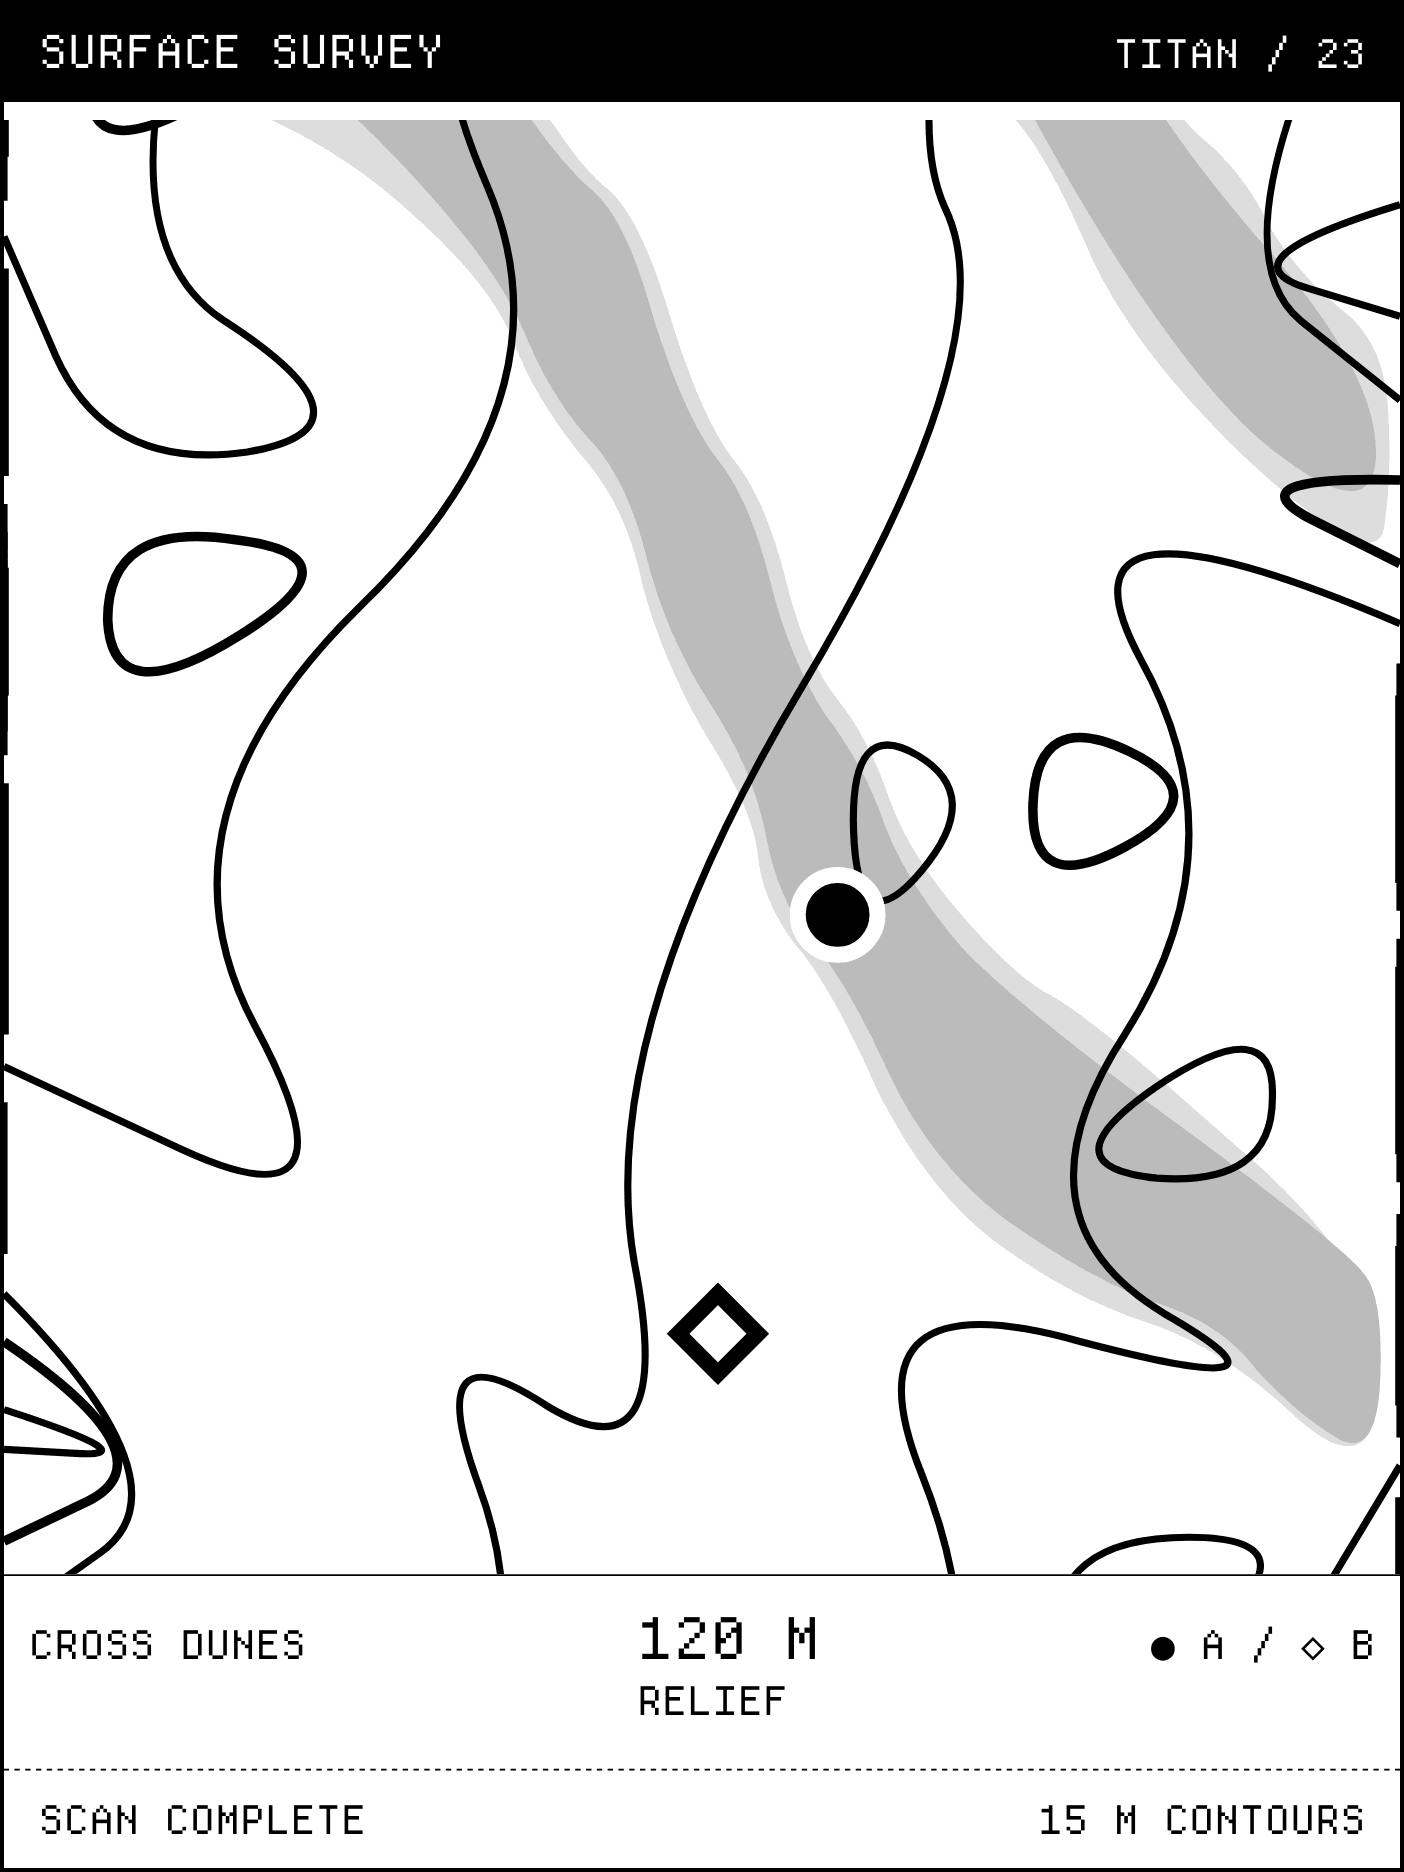
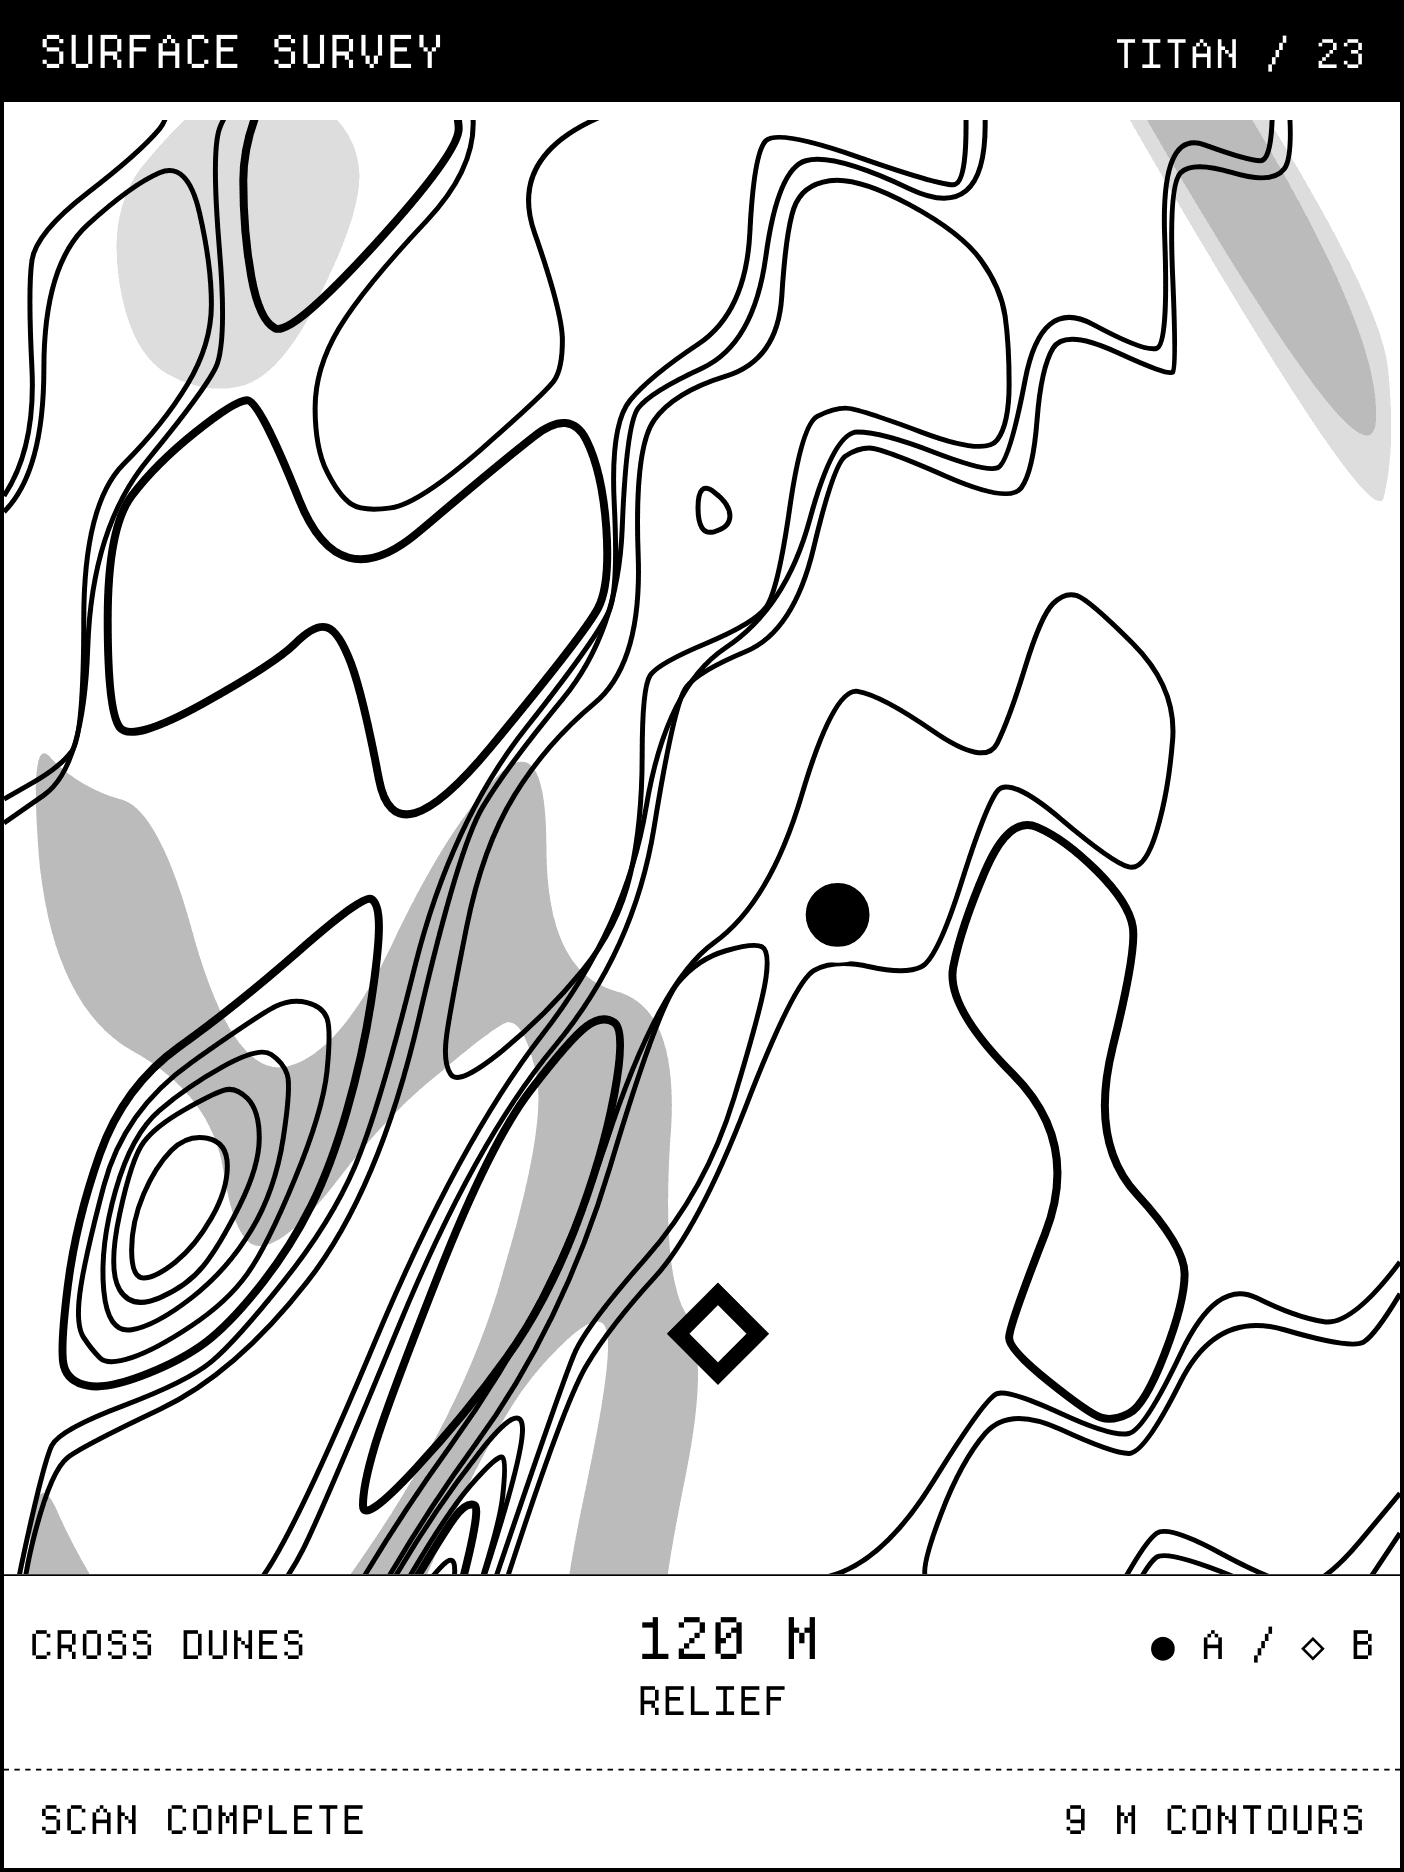
Add denser and more varied Surface Survey terrain

diff --git a/space-terminal/src/transform.js b/space-terminal/src/transform.js
@@ -129,6 +129,7 @@ var spaceTerminal = (() => {
   var mapWidth = 560;
   var mapHeight = 350;
   var gaussian = (distance, width) => Math.exp(-((distance / width) ** 2));
+  var contourBudget = 3420;
   var features = [
     ["ICE RIDGE", "FRACTURE ZONE", "PRESSURE DOMES"],
     ["CRATER RIM", "TWIN IMPACTS", "CRATER CHAIN"],
@@ -136,18 +137,30 @@ var spaceTerminal = (() => {
     ["DUNE FIELD", "DUNE BASINS", "CROSS DUNES"]
   ];
   function heightfield(world, seed, variant) {
-    const phase = seed * 0.071;
-    const angle = phase * 0.77;
+    let state = Math.imul(seed + 1, 2654435761) >>> 0;
+    const sample = () => {
+      state = Math.imul(state, 1664525) + 1013904223 >>> 0;
+      return state / 4294967296;
+    };
+    const phase = sample() * 2 * Math.PI;
+    const angle = sample() * 2 * Math.PI;
+    const shiftX = (sample() - 0.5) * 0.21;
+    const shiftY = (sample() - 0.5) * 0.21;
+    const scale = 0.88 + 0.28 * sample();
+    const strike = 0.9 + 0.4 * sample();
+    const bendStrength = 0.06 + 0.05 * sample();
     const c = Math.cos(angle);
     const s = Math.sin(angle);
     return (u, v) => {
-      const x = c * (u - 0.5) - s * (v - 0.5);
-      const y = s * (u - 0.5) + c * (v - 0.5);
+      const east = c * (u - 0.5) - s * (v - 0.5);
+      const north = s * (u - 0.5) + c * (v - 0.5);
+      const x = scale * east + shiftX + bendStrength * Math.sin(5 * north + phase);
+      const y = scale * north + shiftY + bendStrength * Math.sin(6 * east - phase);
       const wave = Math.sin(9 * x + 7 * y + phase);
       const detail = 0.023 * Math.sin(35 * x - 20 * y + phase) + 0.016 * Math.cos(49 * y + 17 * x - phase) + 0.011 * Math.sin(61 * x + 56 * y + 2 * phase) + 8e-3 * Math.sin(85 * y - 38 * x + phase);
       const hill = (cx, cy, wx, wy) => gaussian(x - cx, wx) * gaussian(y - cy, wy);
       if (world === 0) {
-        const bend = y + 0.57 * x + 0.055 * Math.sin(13 * x + phase);
+        const bend = y + 0.57 * strike * x + 0.08 * Math.sin(11 * x + phase);
         if (variant === 1) {
           return -0.91 * gaussian(bend, 0.075) - 0.57 * gaussian(y - 0.77 * x - 0.17, 0.065) + 0.38 * hill(-0.25, 0.2, 0.28, 0.17) + 0.19 * wave + detail;
         }
@@ -163,7 +176,7 @@ var spaceTerminal = (() => {
         const impact = (cx, cy, size) => {
           const dx = x - cx;
           const dy = (y - cy) * 0.82;
-          const radius = Math.hypot(dx, dy) / size;
+          const radius = Math.hypot(dx, dy * strike) / size;
           const rim = 1 + 0.045 * Math.sin(Math.atan2(dy, dx) * 6 + phase);
           return 0.47 * gaussian(radius - rim, 0.13) - 0.74 * gaussian(radius, 0.67);
         };
@@ -174,7 +187,7 @@ var spaceTerminal = (() => {
         return impact(-0.08, 0.02, 0.27 + 0.022 * Math.sin(phase)) + 0.69 * impact(0.28, -0.27, 0.14) + 0.37 * impact(-0.35, 0.34, 0.12) + 0.2 * x + 0.07 * wave + detail;
       }
       if (world === 2) {
-        const valley = y - 0.3 * x - 0.11 * Math.sin(8 * x + phase);
+        const valley = y - 0.3 * strike * x - 0.13 * Math.sin(8 * x + phase);
         const branch = y + 0.57 * x - 0.13 - 0.045 * Math.sin(14 * x - phase);
         if (variant === 1) {
           return 0.94 * Math.tanh(2.7 * hill(-0.17, 0.03, 0.32, 0.24)) + 0.67 * Math.tanh(2.9 * hill(0.3, 0.24, 0.2, 0.19)) - 0.27 * gaussian(branch, 0.09) + 0.2 * y + detail;
@@ -190,7 +203,10 @@ var spaceTerminal = (() => {
       const warp = 1.3 * Math.sin(7 * x + 4 * y + phase) + 0.45 * Math.sin(15 * x - phase);
       const dunes = Math.sin(30 * y + 19 * x + warp);
       if (variant === 1) return 0.43 * dunes - 0.82 * hill(0.03, 0.03, 0.38, 0.29) + 0.25 * wave + detail;
-      if (variant === 2) return 0.46 * dunes + 0.44 * Math.sin(27 * x - 21 * y + warp) + 0.19 * wave + detail;
+      if (variant === 2) {
+        const crosswind = Math.sin(27 * x - 21 * y + warp);
+        return (0.49 + 0.12 * wave) * dunes + 0.38 * crosswind + 0.14 * wave + detail;
+      }
       return (0.63 + 0.19 * Math.cos(8 * x + phase)) * dunes + 0.27 * wave + 0.32 * x + detail;
     };
   }
@@ -278,9 +294,10 @@ var spaceTerminal = (() => {
       ...simplify(line.slice(split), tolerance)
     ];
   }
-  function svgPaths(paths, tolerance) {
+  function svgPaths(paths, tolerance, compact = false) {
     return paths.map(({ line, closed }) => {
-      const points = simplify(line, tolerance).map(([x, y]) => [Math.round(x), Math.round(y)]);
+      const step = compact ? 2 : 1;
+      const points = simplify(line, tolerance).map(([x, y]) => [step * Math.round(x / step), step * Math.round(y / step)]);
       if (closed && points.length < 4) return "";
       const vertices = closed ? points.slice(0, -1) : points;
       if (points.length < 3) {
@@ -293,12 +310,13 @@ var spaceTerminal = (() => {
       for (const [index, control] of steps.entries()) {
         const next = vertices[(index + (closed ? 1 : 2)) % vertices.length];
         const end = midpoint(control, next);
-        result += [
-          control[0] - current[0],
-          control[1] - current[1],
-          end[0] - current[0],
-          end[1] - current[1]
-        ].join(" ") + " ";
+        const destination = [end[0] - current[0], end[1] - current[1]];
+        if (!compact || index === 0) {
+          result += [control[0] - current[0], control[1] - current[1], ...destination].join(" ") + " ";
+        } else {
+          if (index === 1) result = result.trimEnd() + "t";
+          result += destination.join(" ") + " ";
+        }
         current = end;
       }
       return result.trimEnd().replace(/ (?=-)/g, "") + (closed ? "Z" : "L" + vertices.at(-1).join(" "));
@@ -316,6 +334,13 @@ var spaceTerminal = (() => {
     }
     const area = Math.abs(twiceArea) / 2;
     return area >= minArea && 2 * area >= minWidth * perimeter;
+  }
+  function contourLength({ line }) {
+    let length = 0;
+    for (let i = 1; i < line.length; i++) {
+      length += Math.hypot(line[i][0] - line[i - 1][0], line[i][1] - line[i - 1][1]);
+    }
+    return length;
   }
   function reliefBands(field, range) {
     const stride = columns + 1;
@@ -345,8 +370,8 @@ var spaceTerminal = (() => {
     const field = points.map(([x, y]) => height(x, y));
     const min = Math.min(...field);
     const range = Math.max(...field) - min;
-    const interval = Math.round(relief / 8);
-    const levels = Array.from({ length: 7 }, (_, level) => isolines(field, min + range * (level + 1) * interval / relief));
+    const interval = Math.max(1, Math.round(relief / 14));
+    const levels = Array.from({ length: Math.ceil(relief / interval) - 1 }, (_, level) => isolines(field, min + range * (level + 1) * interval / relief).map((path) => ({ ...path, length: contourLength(path) })));
     const bands = reliefBands(field, range);
     const shading = bands.map((paths) => {
       let band = "";
@@ -357,11 +382,19 @@ var spaceTerminal = (() => {
       return band;
     });
     const elevations = sites.map(({ x, y }) => Math.round(relief * (height(x / mapWidth, y / mapHeight) - min) / range));
-    for (let tolerance = 1.5; ; tolerance *= 1.3) {
-      const contours = levels.map((paths) => svgPaths(paths, tolerance));
-      if (contours.join("").length + shading.join("").length <= 3420) {
-        return { feature: features[world][variant], contours, shading, interval, elevations };
+    const budget = contourBudget - shading.join("").length;
+    for (let tolerance = 2.2; ; tolerance *= 1.25) {
+      const candidates = levels.map((paths) => paths.filter((path) => path.length >= 12).sort((a, b) => b.length - a.length).map((path) => ({ length: path.length, svg: svgPaths([path], tolerance, true) })).filter((path) => path.svg));
+      const contours = candidates.map((paths) => paths[0]?.svg ?? "");
+      let remaining = budget - contours.join("").length;
+      if (remaining < 0) continue;
+      const extra = candidates.flatMap((paths, level) => paths.slice(1).map((path) => ({ ...path, level }))).sort((a, b) => b.length - a.length);
+      for (const { svg, level } of extra) {
+        if (svg.length > remaining) continue;
+        contours[level] += svg;
+        remaining -= svg.length;
       }
+      return { feature: features[world][variant], contours, shading, interval, elevations };
     }
   }
 

diff --git a/space-terminal/tests/generator_test.js b/space-terminal/tests/generator_test.js
@@ -72,7 +72,7 @@ test('new screens use the mission vessel, stable signals, and bounded map marker
   assert.match(dock.destination, new RegExp(`^${survey.world} `));
   assert.deepEqual(signal, terminalPayload(new Date('2026-11-11T23:59:59Z')).signal_intercept);
   assert.equal(signal.trace.split(' ').length, 126);
-  assert.equal(survey.contours.length, 7);
+  assert.ok(survey.contours.filter(Boolean).length >= 10);
   assert.equal(survey.shading.length, 2);
   assert.match(survey.shading[0], /^M.*Z$/);
   assert.ok(survey.interval > 0);
@@ -135,11 +135,11 @@ test('survey worlds produce distinct deterministic maps within the polling budge
     assert.equal(survey.world, world);
     assert.deepEqual(payload, preview('T23:59:59Z'));
     assert.ok(Buffer.byteLength(JSON.stringify(payload)) < 4096);
-    assert.ok(survey.contours.every(path => path.startsWith('M')));
+    assert.ok(survey.contours.filter(Boolean).length >= 10);
+    assert.ok(survey.contours.every(path => !path || path.startsWith('M')));
     assert.equal(survey.shading.length, 2);
     assert.match(survey.shading[0], /^M.*Z$/);
     assert.ok(survey.shading.every(path => !path || /^M.*Z$/.test(path)));
-    if (world === 'EUROPA') assert.equal(survey.shading[0].split('M').length - 1, 1);
     assert.equal(survey.elevations.length, survey.site_b ? 2 : 1);
     assert.ok(survey.elevations.every(elevation => elevation >= 0 && elevation <= survey.relief));
     if (survey.site_b) {

diff --git a/space-terminal/README.md b/space-terminal/README.md
@@ -36,7 +36,9 @@ fills its panel in every slot.
 
 These are local renders. The first seven previews are 800 × 480. The full-screen X landscape layout fits the original 5:3 artwork
 inside the panel. Survey maps use black stippling for shaded slopes on 1-bit
-displays and up to two gray relief tones on displays that support them.
+displays and up to two gray relief tones on displays that support them. The
+daily seed varies the orientation, size, and shape of the terrain within each
+landform family. Contour spacing follows the total elevation range.
 
 ## How it works
 
